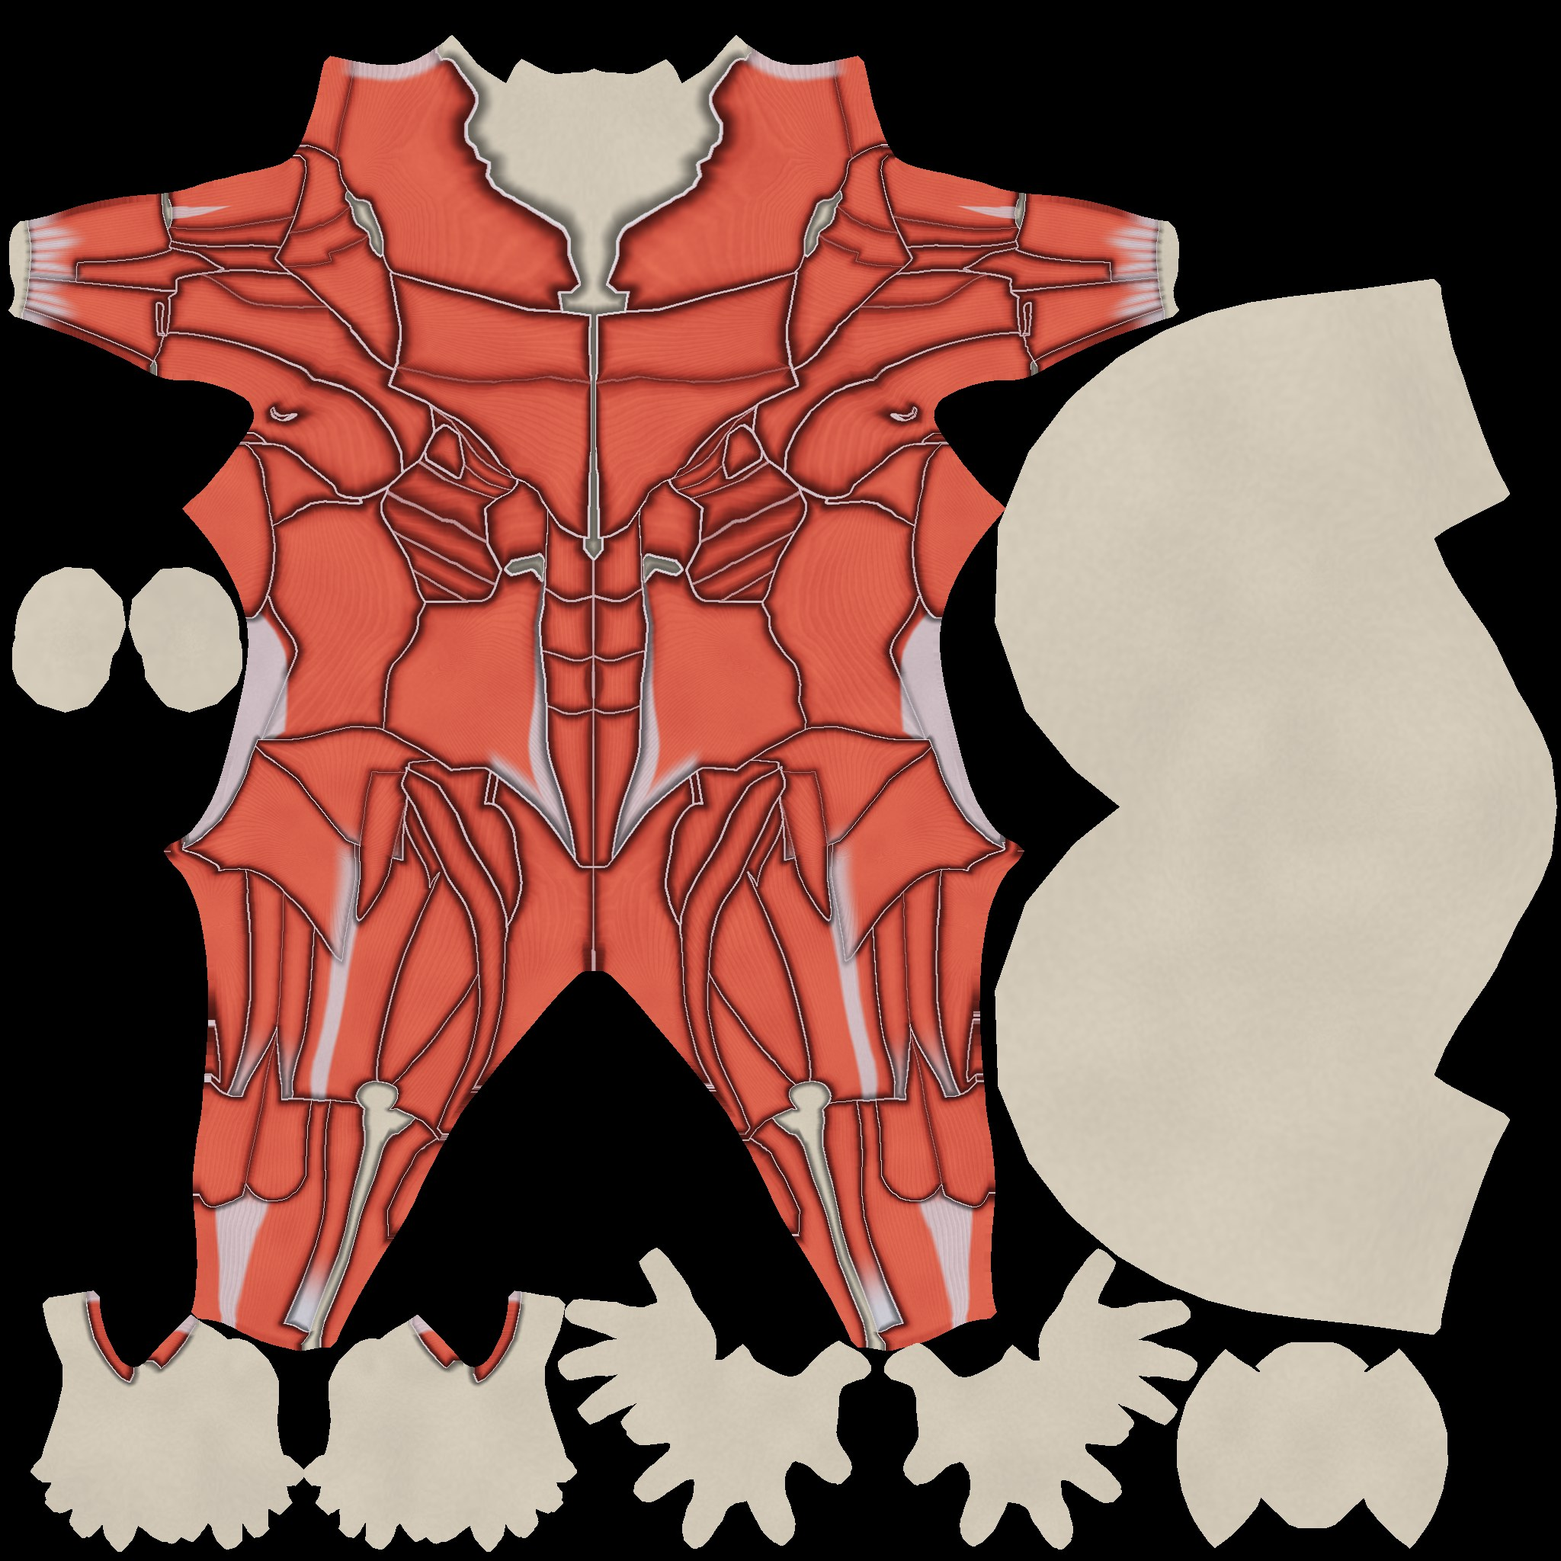
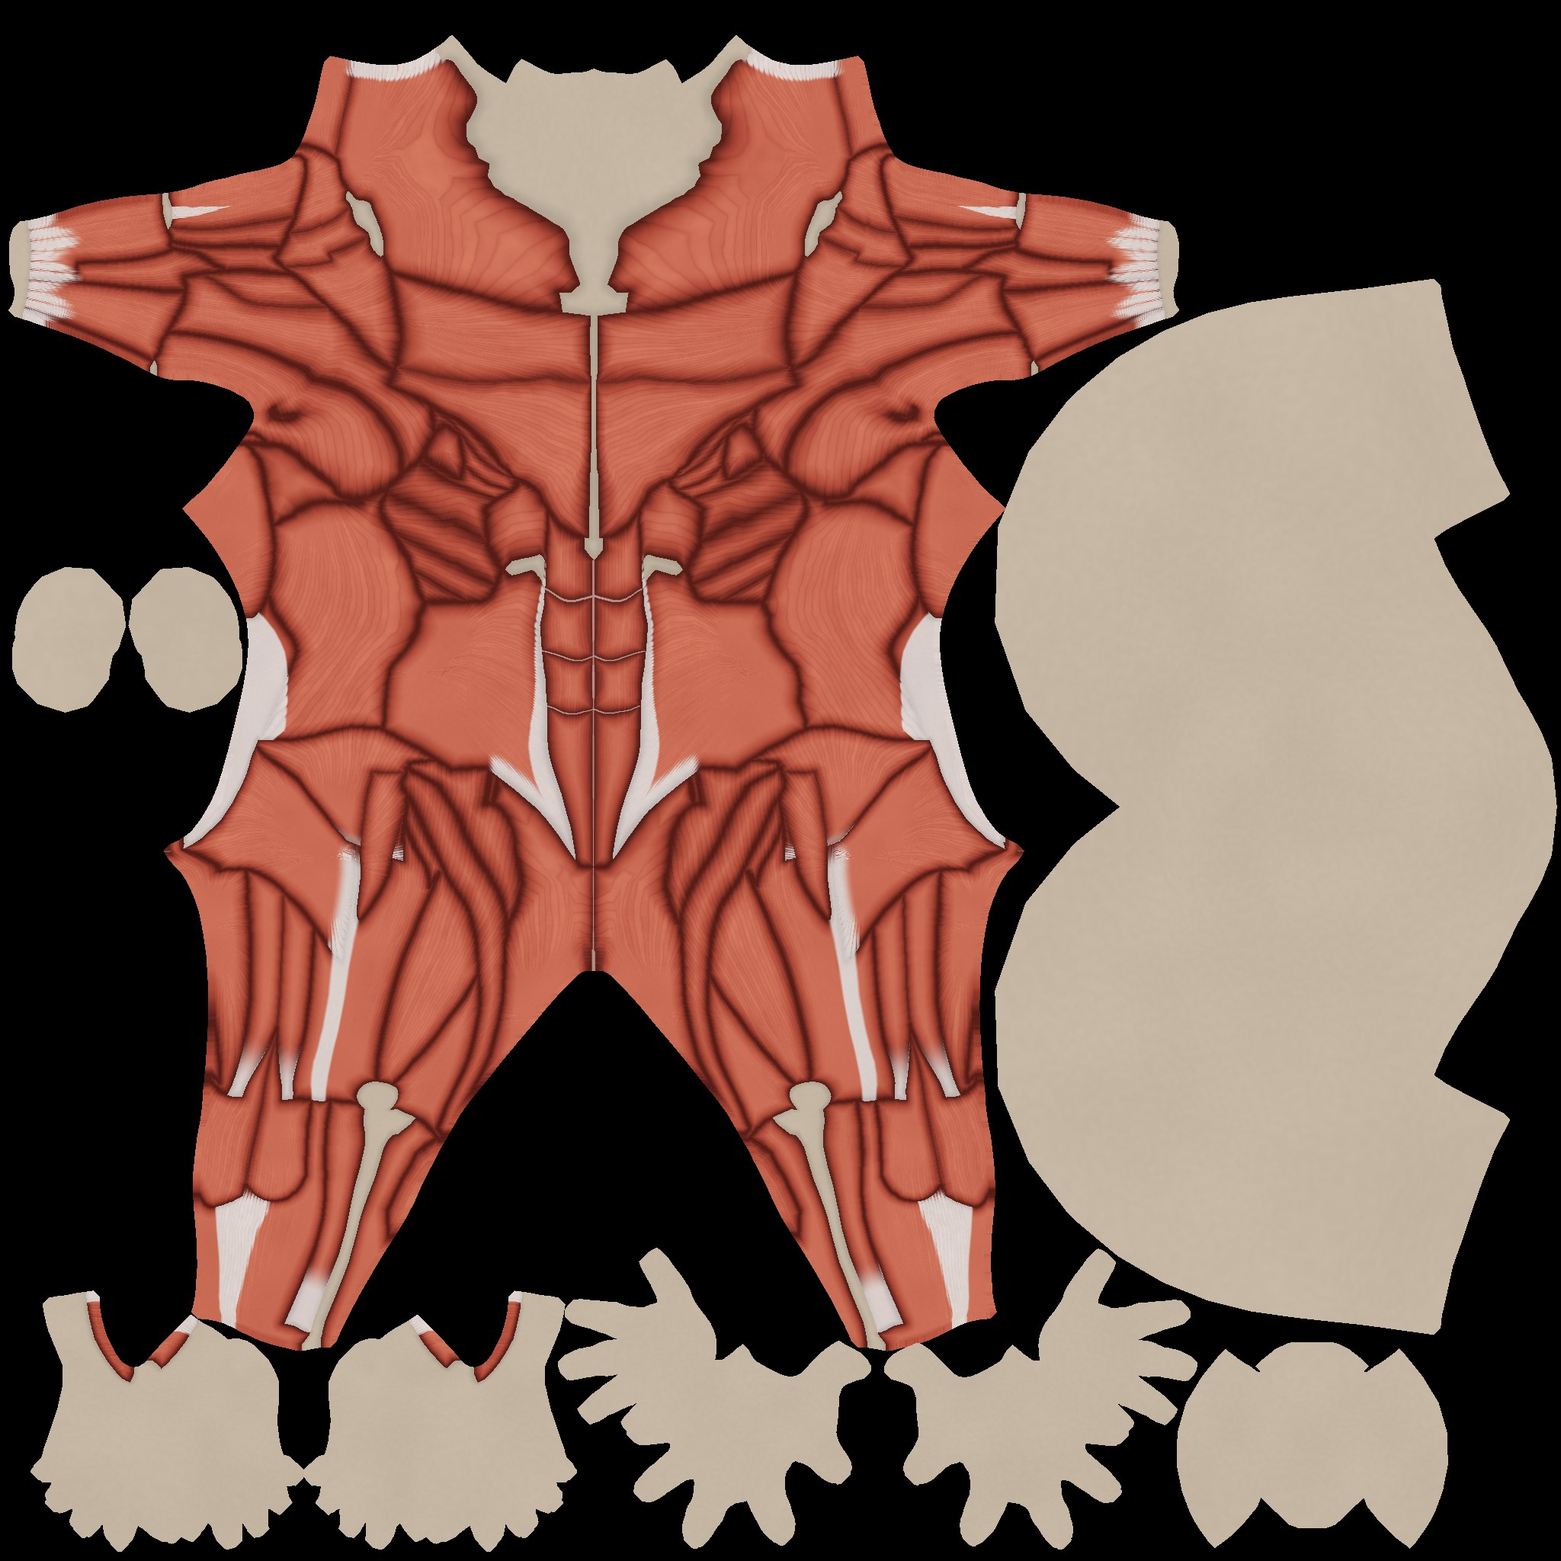
Anatomie 1b: Furchen statt Linien, Faserbündel, Glanz je Gewebe, Version 0.5.0
- Bäcker: Muskelgrenzen als ~1 cm breite Furche (dunkel, im Relief tief);
  helle Faszie nur noch an Linea alba, Mittellinien und Sixpack-Sehnenzügen
- Fasern als gerundete Bündel (~3,5 mm) mit Naht, eigener Helligkeit und
  Streifen entlang des Bündels statt gleichmäßigem Sinus
- Sehnenübergänge fiedern entlang der Bündel aus; Farbrampe Lachs bis
  Rotbraun, Knochen gedämpft elfenbeinfarben
- Relief verlustfrei als PNG (JPG-Blöcke wurden im Bump-Mapping sichtbar)
- Shader: Glanz je Gewebe (Muskel feucht, Sehne seidenmatt), dünne feuchte
  Deckschicht nur auf Muskel, Randlicht aus der ungestörten Normale
- Ellbogen: Oberarm-Zylinder greift in der Ruhehaltung nicht mehr auf den
  Unterarm über

Claude-Session: https://claude.ai/code/session_01LHRCLqy4qHW6NHZ8ZRBzk7

diff --git a/tools/anatomie-kern.ts b/tools/anatomie-kern.ts
@@ -205,7 +205,9 @@ export function backe(g: 'm' | 'w', N = 2048): Ergebnis {
     // unten, Trizeps hinten
     if (OBERARM.has(id) || id.startsWith('delt_') || id === '') {
       const { t, w, radius } = imGlied(oberarm, p);
-      if (t > 0.08 && t < 1.0 && (id !== '' || radius < 0.08)) {   // auch Ringe ohne Maskenabdeckung
+      // in der gebeugten Ruhehaltung reicht der Oberarm-Zylinder über das Gelenk: dort gilt der Unterarm
+      const ua = imGlied(unterarm, p), jenseits = ua.t > 0.0 && ua.radius < 0.09;
+      if (t > 0.08 && t < 1.0 && !jenseits && (id !== '' || radius < 0.08)) {   // auch Ringe ohne Maskenabdeckung
         const dw = Math.abs(Math.atan2(Math.sin(w - 1.4), Math.cos(w - 1.4)));
         if (t < 0.47 - 0.36 * Math.min(1, dw / 2.2) ** 1.2) return ix(w > -1.6 && w < 1.15 ? 'delt_v' : w >= 1.15 && w < 2.1 ? 'delt_s' : 'delt_h', s);
         if (Math.abs(w) < 0.95 * Math.sin(Math.PI * Math.min(1, Math.max(0, (t - 0.12) / 0.86))) ** 0.4) return ix('bizeps', s);
@@ -346,19 +348,27 @@ export function backe(g: 'm' | 'w', N = 2048): Ergebnis {
     const id = idVon(ea);
     return id === 'bauch_g' ? 0.9 : id === 'serratus' ? 0.7 : 0.45;
   };
-  const randPkte: number[] = [], randSt: number[] = [];
+  // Helle Faszie nur, wo sie auch anatomisch hell ist: Linea alba und Mittellinien (gleicher Muskel links/rechts),
+  // Sehnenzüge des geraden Bauchmuskels. Alle anderen Grenzen sind Furchen (Schatten statt Linie).
+  const hellVon = (ta: number, tb: number) => {
+    const ea = ta >> 4, eb = tb >> 4;
+    if (ea !== eb) return ea && eb && idVon(ea) === idVon(eb) ? 1 : 0;
+    return idVon(ea) === 'bauch_g' ? 1 : 0;
+  };
+  const randPkte: number[] = [], randSt: number[] = [], randHell: number[] = [];
   for (let py = 0; py < N; py++) for (let px = 0; px < N; px++) {
     const i = py * N + px;
     if (dreieck[i] < 0) continue;
-    let st = 0;
+    let st = 0, hl = 0;
     for (const j of [px + 1 < N ? i + 1 : -1, py + 1 < N ? i + N : -1]) {
       if (j < 0 || dreieck[j] < 0 || teil[j] === teil[i]) continue;
       // nur echte Nachbarn im Raum (UV-Nähte trennen Texel, die im Körper weit auseinanderliegen)
       const d = Math.hypot(pos[3 * i] - pos[3 * j], pos[3 * i + 1] - pos[3 * j + 1], pos[3 * i + 2] - pos[3 * j + 2]);
       if (d > 0.006) continue;
-      st = Math.max(st, staerke(teil[i], teil[j]) * (1 - 0.75 * Math.min(sehne[i], sehne[j])));
+      const sv = staerke(teil[i], teil[j]) * (1 - 0.75 * Math.min(sehne[i], sehne[j]));
+      if (sv > st) { st = sv; hl = hellVon(teil[i], teil[j]); }
     }
-    if (st > 0) { randPkte.push(pos[3 * i], pos[3 * i + 1], pos[3 * i + 2]); randSt.push(st); }
+    if (st > 0) { randPkte.push(pos[3 * i], pos[3 * i + 1], pos[3 * i + 2]); randSt.push(st); randHell.push(hl); }
   }
 
   // ---------- 4. Abstand jedes Texels zur nächsten Grenze (3D, Gitter 2 cm) ----------
@@ -368,12 +378,12 @@ export function backe(g: 'm' | 'w', N = 2048): Ergebnis {
     const key = schl(randPkte[3 * k], randPkte[3 * k + 1], randPkte[3 * k + 2]);
     (gitter.get(key) ?? gitter.set(key, []).get(key)!).push(k);
   }
-  const abstand = new Float32Array(NN2).fill(ZELLE), naechsteSt = new Float32Array(NN2);
+  const abstand = new Float32Array(NN2).fill(ZELLE), naechsteSt = new Float32Array(NN2), naechsteHell = new Float32Array(NN2);
   for (let i = 0; i < NN2; i++) {
     if (dreieck[i] < 0) continue;
     const x = pos[3 * i], y = pos[3 * i + 1], z = pos[3 * i + 2];
     const cx = Math.floor(x / ZELLE), cy = Math.floor(y / ZELLE), cz = Math.floor(z / ZELLE);
-    let best = ZELLE * ZELLE, bs = 0;
+    let best = ZELLE * ZELLE, bs = 0, bh = 0;
     for (let dx = -1; dx <= 1; dx++) for (let dy = -1; dy <= 1; dy++) for (let dz = -1; dz <= 1; dz++) {
       const liste = gitter.get(`${cx + dx},${cy + dy},${cz + dz}`);
       if (!liste) continue;
@@ -381,55 +391,69 @@ export function backe(g: 'm' | 'w', N = 2048): Ergebnis {
         const ex = randPkte[3 * k] - x, ey = randPkte[3 * k + 1] - y, ez = randPkte[3 * k + 2] - z, d2 = ex * ex + ey * ey + ez * ez;
         // starke Grenzen zählen etwas näher: so dominiert die echte Muskelgrenze die Unterteilung
         const d2w = d2 / (0.6 + 0.4 * randSt[k]);
-        if (d2w < best) { best = d2w; bs = randSt[k]; }
+        if (d2w < best) { best = d2w; bs = randSt[k]; bh = randHell[k]; }
       }
     }
-    abstand[i] = Math.sqrt(best); naechsteSt[i] = bs;
+    abstand[i] = Math.sqrt(best); naechsteSt[i] = bs; naechsteHell[i] = bh;
   }
 
   // ---------- 5. Farbe und Relief ----------
+  // Plastik entsteht aus Licht, nicht aus Linien: Muskelbäuche wölben sich, Grenzen sind Furchen (dunkel, im Relief
+  // tief), Fasern sind gerundete Bündel mit unregelmäßiger Helligkeit, Sehnenübergänge fiedern entlang der Fasern aus.
   const farbe = new Uint8Array(NN2 * 3), hoehe = new Uint8Array(NN2), karte = new Uint8Array(NN2 * 4);
-  const MUSKEL_M: V3 = [190, 64, 52], MUSKEL_H: V3 = [236, 118, 92], MUSKEL_D: V3 = [98, 26, 22];
-  const SEHNE: V3 = [226, 224, 234], KNOCHEN: V3 = [232, 222, 204];
+  const MUSKEL_D: V3 = [88, 28, 23], MUSKEL_M: V3 = [174, 72, 55], MUSKEL_H: V3 = [228, 140, 112];
+  const SEHNE: V3 = [234, 227, 224], KNOCHEN: V3 = [212, 196, 176], FASZIE: V3 = [238, 218, 210];
+  const lin = (c: number) => { const x = c / 255; return x <= 0.04045 ? x / 12.92 : ((x + 0.055) / 1.055) ** 2.4; };
+  let lumSumme = 0, lumAnzahl = 0;
   for (let py = 0; py < N; py++) for (let px = 0; px < N; px++) {
     const i = py * N + px;
     if (dreieck[i] < 0) continue;
     const x = pos[3 * i], y = pos[3 * i + 1], z = pos[3 * i + 2], e = einheit[i];
-    const d = abstand[i], st = naechsteSt[i];
-    const bauchprofil = 1 - (1 - Math.min(1, d / 0.026)) ** 2;             // gewölbter Muskelbauch
-    const linie = st * (1 - glatt(0.0005, 0.0013, d));                       // helle Faszienlinie
-    const kante = st * glatt(0.0005, 0.0013, d) * (1 - glatt(0.0013, 0.011, d));   // Schatten neben der Linie
-    // Fasern: zwei Frequenzen, leicht verrauscht; Abbau dort, wo die Phase zu dicht wird (Aliasing)
-    let f = 0;
+    const d = abstand[i], st = naechsteSt[i], hell = naechsteHell[i];
+    const bauch = 1 - (1 - Math.min(1, d / 0.032)) ** 2.2;                 // breite Wölbung, steiler Rand
+    const furche = st * (1 - glatt(0.0, 0.011, d)) ** 1.8;                  // ~1 cm breite, weich auslaufende Furche
+    const linieHell = hell * st * (1 - glatt(0.0004, 0.0011, d));            // feine helle Faszie (Linea alba, Sehnenzüge)
+    const korn = rauschen(x * 400, y * 400, z * 400) - 0.5, wolke = rauschen(x * 25, y * 25, z * 25) - 0.5;
+    // Faserbündel (~3,5 mm): gerundet, mit dunkler Naht, eigener Helligkeit und Streifen entlang des Bündels
+    let bund = 0.5, naht = 0, strahl = 0, zufall = 0;
     if (e) {
       const ph = phase[i];
       const nb = px + 1 < N && dreieck[i + 1] >= 0 && einheit[i + 1] === e ? Math.abs(phase[i + 1] - ph) : 0;
-      const aa = 1 - glatt(0.18, 0.35, nb);
-      const r = rauschen(x * 60, y * 60, z * 60);
-      const staerkeF = 0.55 + 0.45 * rauschen(x * 14 + 7, y * 14, z * 14);
-      f = (0.65 * Math.sin(2 * Math.PI * ph + 2.2 * r) + 0.35 * Math.sin(2 * Math.PI * 2.07 * ph + 1.1)) * aa * staerkeF;
+      const aa = 1 - glatt(0.12, 0.24, nb);                                  // zu dicht für die Auflösung: weglassen
+      const q = 1.5 * ph + 0.6 * (rauschen(x * 40, y * 40, z * 40) - 0.5), idx = Math.floor(q), fr = q - idx;
+      bund = 0.5 + (Math.sqrt(Math.sin(Math.PI * fr)) - 0.5) * aa;
+      naht = (1 - glatt(0.0, 0.16, Math.min(fr, 1 - fr))) * aa;
+      zufall = (hash(idx, e, 7) - 0.5) * aa;
+      strahl = (rauschen(x * 90 + idx * 1.7, y * 90 + idx * 0.9, z * 90) - 0.5) * aa;
     }
-    const korn = rauschen(x * 400, y * 400, z * 400) - 0.5, wolke = rauschen(x * 25, y * 25, z * 25) - 0.5;
-    const s = sehne[i];
-    // Muskel: Mitte heller, Ränder dunkler, Fasern als feine Hell-Dunkel-Streifen
-    const licht = 0.22 + 0.62 * bauchprofil + 0.065 * f + 0.12 * wolke + 0.05 * korn;
-    const muskel: V3 = [0, 1, 2].map(k => licht < 0.5 ? mischen(MUSKEL_D[k], MUSKEL_M[k], licht / 0.5) : mischen(MUSKEL_M[k], MUSKEL_H[k], (licht - 0.5) / 0.5)) as V3;
-    // Sehne: hell, leicht bläulich, mit feinen Längsstreifen
-    const sh = 0.9 + 0.05 * f + 0.05 * wolke + 0.03 * korn;
+    // Sehne: Übergang fiedert entlang der Bündel aus statt als weicher Verlauf
+    const sRoh = sehne[i];
+    let s = sRoh;
+    if (e) {
+      s = Math.min(1, Math.max(0, sRoh + (0.5 * (bund - 0.5) + 0.35 * strahl) * 4 * sRoh * (1 - sRoh)));
+      s = Math.min(0.95, glatt(0.12, 0.88, s));
+    }
+    // Muskel: Wölbung hell, Furche tief und satt; Bündel, Streifen, Wolken und Korn brechen die Gleichförmigkeit
+    const licht = 0.2 + 0.64 * bauch + 0.05 * (bund - 0.5) + 0.07 * zufall + 0.07 * strahl + 0.08 * wolke + 0.03 * korn - 0.05 * naht - 0.24 * furche;
+    const l = Math.min(1, Math.max(0, licht));
+    const muskel: V3 = [0, 1, 2].map(k => l < 0.5 ? mischen(MUSKEL_D[k], MUSKEL_M[k], l / 0.5) : mischen(MUSKEL_M[k], MUSKEL_H[k], (l - 0.5) / 0.5)) as V3;
+    // Sehne perlmuttartig mit Faserstreifen, Knochen elfenbeinfarben
+    const sh = 0.93 + 0.05 * (bund - 0.5) + 0.04 * strahl + 0.03 * wolke + 0.02 * korn - 0.1 * furche;
     const basis = e === 0 ? KNOCHEN : SEHNE;
-    const sehnenF: V3 = [basis[0] * sh, basis[1] * sh, basis[2] * sh];
     const c: V3 = [0, 1, 2].map(k => {
-      let v = mischen(muskel[k], sehnenF[k], s);
-      v *= 1 - 0.5 * kante;
-      v = mischen(v, [222, 220, 230][k], 0.85 * linie);
+      let v = mischen(muskel[k], basis[k] * sh, s);
+      v = mischen(v, FASZIE[k], 0.75 * linieHell);
       return Math.max(0, Math.min(255, v));
     }) as V3;
     farbe[3 * i] = c[0]; farbe[3 * i + 1] = c[1]; farbe[3 * i + 2] = c[2];
-    // Relief: Bauch hoch, Faszie als Rinne, Fasern fein; Sehnen flach
-    const h = 0.5 + (1 - s) * (0.34 * bauchprofil + 0.018 * f) + 0.04 * s * f - 0.12 * st * (1 - glatt(0.0006, 0.002, d)) + 0.02 * korn + 0.28 * hals2[i];
+    if (e && s < 0.2) { lumSumme += 0.2126 * lin(c[0]) + 0.7152 * lin(c[1]) + 0.0722 * lin(c[2]); lumAnzahl++; }
+    // Relief: Bauch hoch, Furche tief, Bündel fein gerundet; Sehnen flach mit leichten Längsrippen
+    const h = 0.5 + (1 - s) * (0.3 * bauch + 0.012 * (bund - 0.5) - 0.008 * naht + 0.008 * strahl)
+      + s * 0.008 * (bund - 0.5) - 0.2 * furche + 0.004 * korn + 0.28 * hals2[i];
     hoehe[i] = Math.max(0, Math.min(255, Math.round(h * 255)));
     karte[4 * i] = e; karte[4 * i + 1] = Math.round(255 * (1 - s)); karte[4 * i + 2] = Math.round(255 * hautzone[i]); karte[4 * i + 3] = 255;
   }
+  console.log(`${g}: mittlere Muskel-Luminanz (linear) ${(lumSumme / Math.max(1, lumAnzahl)).toFixed(3)}`);
 
   // ---------- 6. Ränder der UV-Inseln auffüllen (für Mipmaps und bilineares Filtern) ----------
   const belegt = new Uint8Array(NN2);

diff --git a/src/avatar/AvatarModell.tsx b/src/avatar/AvatarModell.tsx
@@ -83,6 +83,7 @@ const ATLAS_REF = (() => { const [r, g, b] = atlasFarbe(0.5); return new THREE.V
 function kleidMaterial(map: THREE.Texture, akzent: THREE.Color, gelenke: KoerperDaten['gelenke'], frau: boolean) {
   const mat = new THREE.MeshPhysicalMaterial({
     map, roughness: 0.58, metalness: 0, sheen: 0.35, sheenRoughness: 0.75, sheenColor: new THREE.Color('#ffd9c7'),
+    clearcoat: 0.001, clearcoatRoughness: 0.42,
   });
   const J = (n: string) => gelenke[n];
   const becken = J('pelvis'), huefte = J('l-upper-leg'), knie = J('l-knee'), schulter = J('l-shoulder'), hals = J('neck');
@@ -164,8 +165,10 @@ function kleidMaterial(map: THREE.Texture, akzent: THREE.Color, gelenke: Koerper
         // Kopf, Hände und Füße bleiben in der Anatomie-Ansicht Haut
         diffuseColor.rgb = mix(diffuseColor.rgb, hautFarbe, uAnatomie * vHautZone * (1.0 - decke));
         // Texturpaket (sobald geladen): gemalte Anatomie, pixelgenaue Einheiten, Relief – ersetzt das Prozedurale
+        float gewebe = 0.0;   // 1 = Muskel, 0 = Sehne/Knochen/Haut (für Glanz)
         if (uKarteAn > 0.5) {
           vec4 kt = texture2D(uAnatKarte, vMapUv);
+          gewebe = kt.g * step(0.5, floor(kt.r * 255.0 + 0.5)) * uAnatomie;
           float id = floor(kt.r * 255.0 + 0.5);
           vec4 ec = texture2D(uEinheiten, vec2((id + 0.5) / 128.0, 0.25));   // Farbe der Einheit (Entwicklung bzw. Atlas)
           vec4 ez = texture2D(uEinheiten, vec2((id + 0.5) / 128.0, 0.75));   // r = gewählt
@@ -177,13 +180,22 @@ function kleidMaterial(map: THREE.Texture, akzent: THREE.Color, gelenke: Koerper
           vec3 tex = mix(entw, anat, uAnatomie);
           tex = mix(tex, hautFarbe, kt.b * step(id, 0.5) * uAnatomie);
           diffuseColor.rgb = mix(nachKleid, tex, uFarbAnteil);
-          float hoeheTex = (texture2D(uAnatHoehe, vMapUv).r - 0.5) * 0.012;
+          float hoeheTex = (texture2D(uAnatHoehe, vMapUv).r - 0.5) * 0.016;
           hoehe = (uAnatomie + 0.35 * (uFarbAnteil - uAnatomie)) * hoeheTex - (1.0 - uFarbAnteil) * hautTiefe;
         }`)
+      .replace('#include <roughnessmap_fragment>', `#include <roughnessmap_fragment>
+        roughnessFactor = mix(roughnessFactor, mix(0.55, 0.44, gewebe), uAnatomie * uKarteAn);`)
       .replace('#include <normal_fragment_maps>', `#include <normal_fragment_maps>
         normal = relief(-vViewPosition, normal, hoehe);`)
+      .replace('#include <clearcoat_normal_fragment_begin>', `#ifdef USE_CLEARCOAT
+        vec3 clearcoatNormal = normal;
+        #endif`)
+      .replace('#include <lights_physical_fragment>', `#include <lights_physical_fragment>
+        #ifdef USE_CLEARCOAT
+        material.clearcoat *= gewebe;   // feuchter Film nur auf Muskelgewebe
+        #endif`)
       .replace('#include <emissivemap_fragment>', `#include <emissivemap_fragment>
-        float randLicht = pow(1.0 - clamp(dot(normal, normalize(vViewPosition)), 0.0, 1.0), 3.0);
+        float randLicht = pow(1.0 - clamp(dot(nonPerturbedNormal, normalize(vViewPosition)), 0.0, 1.0), 3.0);   // Silhouette, nicht Relief
         totalEmissiveRadiance += uAkzent * (vGluehen * 0.9 + vAuswahl * 0.4 + randLicht * 0.22);`);
   };
   return { mat, uniforms };
@@ -324,7 +336,7 @@ export function AvatarModell({ daten, zustand, darstellung, auswahl, hautton, ak
     const laden = <T,>(f: (ok: (x: T) => void, fehler: (e: unknown) => void) => void) => new Promise<T>((ok, fehler) => f(ok, fehler));
     Promise.all([
       laden<THREE.Texture>((ok, f) => tl.load(pfad('farbe.jpg'), ok, undefined, f)),
-      laden<THREE.Texture>((ok, f) => tl.load(pfad('hoehe.jpg'), ok, undefined, f)),
+      laden<THREE.Texture>((ok, f) => tl.load(pfad('hoehe.png'), ok, undefined, f)),
       laden<HTMLImageElement>((ok, f) => il.load(pfad('karte.png'), ok, undefined, f)),
     ]).then(([farbeT, hoeheT, karteBild]) => {
       if (ab) return;
@@ -426,6 +438,7 @@ export function AvatarModell({ daten, zustand, darstellung, auswahl, hautton, ak
     if (Math.abs(ad) > 0.002) { anatAnteil.current += ad * (bewegung ? Math.min(1, dt * 8) : 1); aktiv = true; } else anatAnteil.current = az;
     uniforms.uAnatomie.value = anatAnteil.current;
     mat.roughness = 0.58 - 0.16 * anatAnteil.current;   // Muskelgewebe glänzt leicht feucht
+    mat.clearcoat = 0.001 + 0.12 * anatAnteil.current;     // im Shader nur auf Muskelgewebe
     mat.sheen = 0.02 + 0.33 * (1 - farbAnteil.current);   // Haut-Glanz würde die Farbskalen auswaschen
     if (aktiv || glueht || dirty.current) {
       aktualisiere(a.mu, a.muRest, a.omega);

diff --git a/index.html b/index.html
@@ -17,7 +17,7 @@
 <link rel="preconnect" href="https://fonts.gstatic.com" crossorigin>
 <link rel="stylesheet" href="https://fonts.googleapis.com/css2?family=Barlow:wght@400;500;600;700&family=Saira:wdth,wght@112,600;112,700;112,800&display=swap">
 <script>
-const APP_VERSION = '0.4.0';          // bei JEDER Änderung hochzählen
+const APP_VERSION = '0.5.0';          // bei JEDER Änderung hochzählen
 window.APP_VERSION = APP_VERSION;
 </script>
 </head>

diff --git a/tools/anatomie-bilder.py b/tools/anatomie-bilder.py
@@ -7,9 +7,10 @@ roh, ziel, n = sys.argv[1], sys.argv[2], int(sys.argv[3])
 for g in ('m', 'w'):
     lies = lambda k: open(os.path.join(roh, f'{g}-{k}.bin'), 'rb').read()
     Image.frombytes('RGB', (n, n), lies('farbe')).save(os.path.join(ziel, f'anatomie-{g}-farbe.jpg'), 'JPEG', quality=88, optimize=True, progressive=True)
-    Image.frombytes('L', (n, n), lies('hoehe')).save(os.path.join(ziel, f'anatomie-{g}-hoehe.jpg'), 'JPEG', quality=92, optimize=True)
+    # Relief verlustfrei: JPG-Blöcke würden im Bump-Mapping als Kacheln sichtbar
+    Image.frombytes('L', (n, n), lies('hoehe')).save(os.path.join(ziel, f'anatomie-{g}-hoehe.png'), 'PNG', optimize=True)
     # Karte verlustfrei: R = Einheit, G = Muskelanteil, B = Hautzone
     Image.frombytes('RGBA', (n, n), lies('karte')).convert('RGB').save(os.path.join(ziel, f'anatomie-{g}-karte.png'), 'PNG', optimize=True)
-    for k in ('farbe.jpg', 'hoehe.jpg', 'karte.png'):
+    for k in ('farbe.jpg', 'hoehe.png', 'karte.png'):
         f = os.path.join(ziel, f'anatomie-{g}-{k}')
         print(f'{f:42s} {os.path.getsize(f) // 1024:6d} KB')

diff --git a/README.md b/README.md
@@ -107,15 +107,18 @@ MH_DATA=/pfad/makehuman/data MH_SYSTEM=/pfad/makehuman-system-assets npm run ass
 ### Anatomie-Texturpaket
 
 Die Anatomie-Ansicht nutzt je Geschlecht drei Texturen in `public/modelle/` (`anatomie-{m,w}-farbe.jpg`,
-`-hoehe.jpg`, `-karte.png`). Sie werden ohne Grafikprogramm aus dem Körpernetz und den Muskelmasken gebacken:
+`-hoehe.png`, `-karte.png`). Sie werden ohne Grafikprogramm aus dem Körpernetz und den Muskelmasken gebacken:
 
 ```sh
-npm run anatomie     # tools/anatomie-backen.mjs, etwa 20 s je Geschlecht, braucht python3 mit Pillow
+npm run anatomie     # tools/anatomie-backen.mjs, etwa 25 s je Geschlecht, braucht python3 mit Pillow
 ```
 
 `tools/anatomie-kern.ts` wertet je Texel die Masken aus und schneidet die sichtbaren Muskeln nach ihrer echten Form zu
 (Brust, Trapez, Lat, Beckenkamm, Leistenband, Gesäß, Deltamuskel, Wade …). Die Karte trägt je Texel die Einheit;
 zur Laufzeit färbt die App darüber Entwicklung und Auswahl, und ein Tipp trifft den Muskel texelgenau.
+Muskelgrenzen sind Furchen im Relief statt gezeichneter Linien; helle Faszie gibt es nur an Linea alba, Mittellinien und den
+Sehnenzügen des Sixpacks. Fasern sind Bündel mit eigener Helligkeit, Sehnenübergänge fiedern aus. Muskelgewebe bekommt im
+Shader einen feuchten Glanz, Sehnen bleiben seidenmatt.
 
 ## Lizenz der Körpermodelle
 
